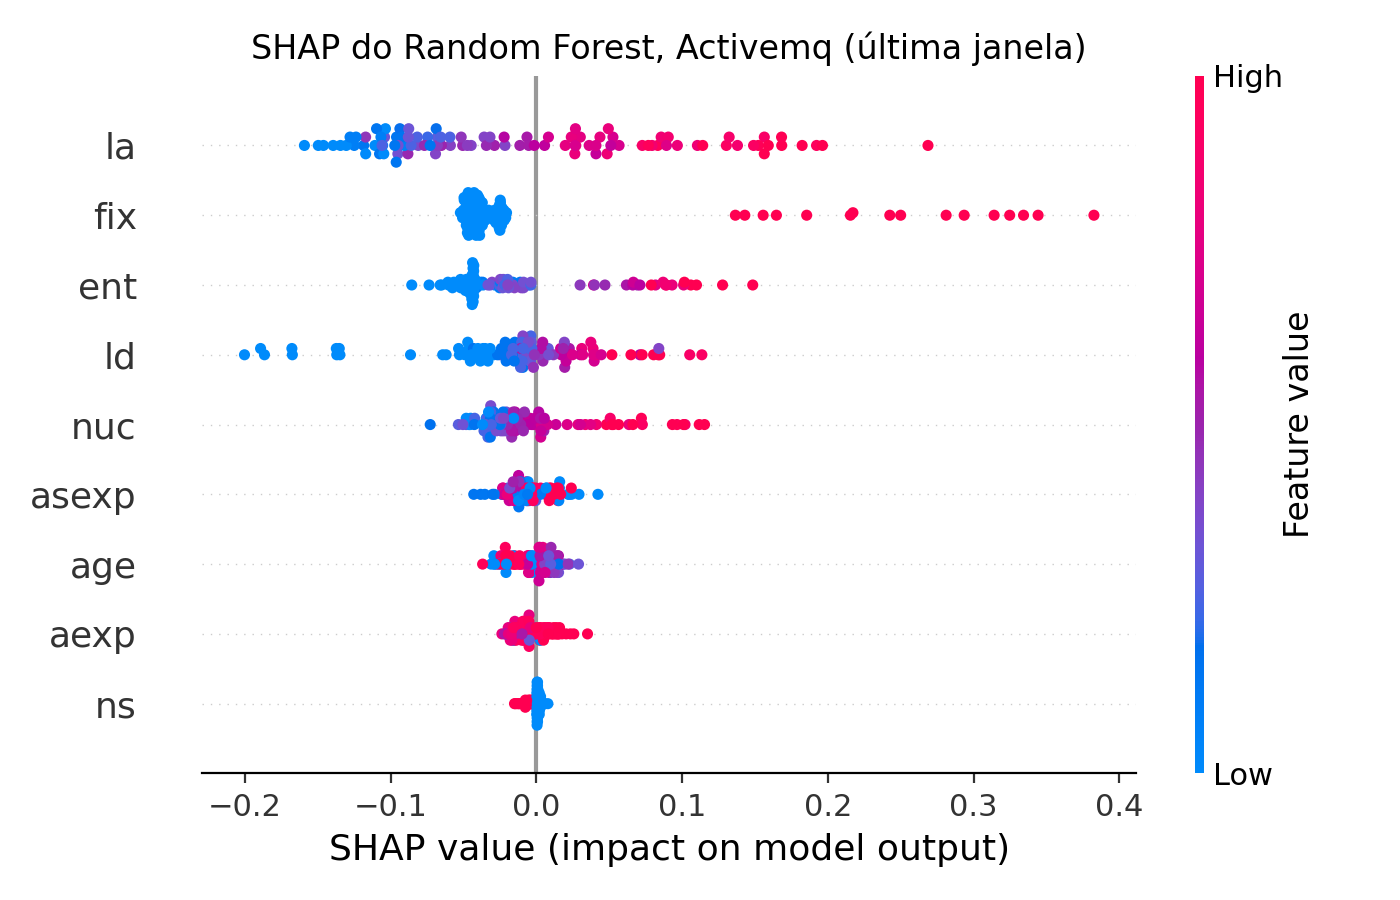
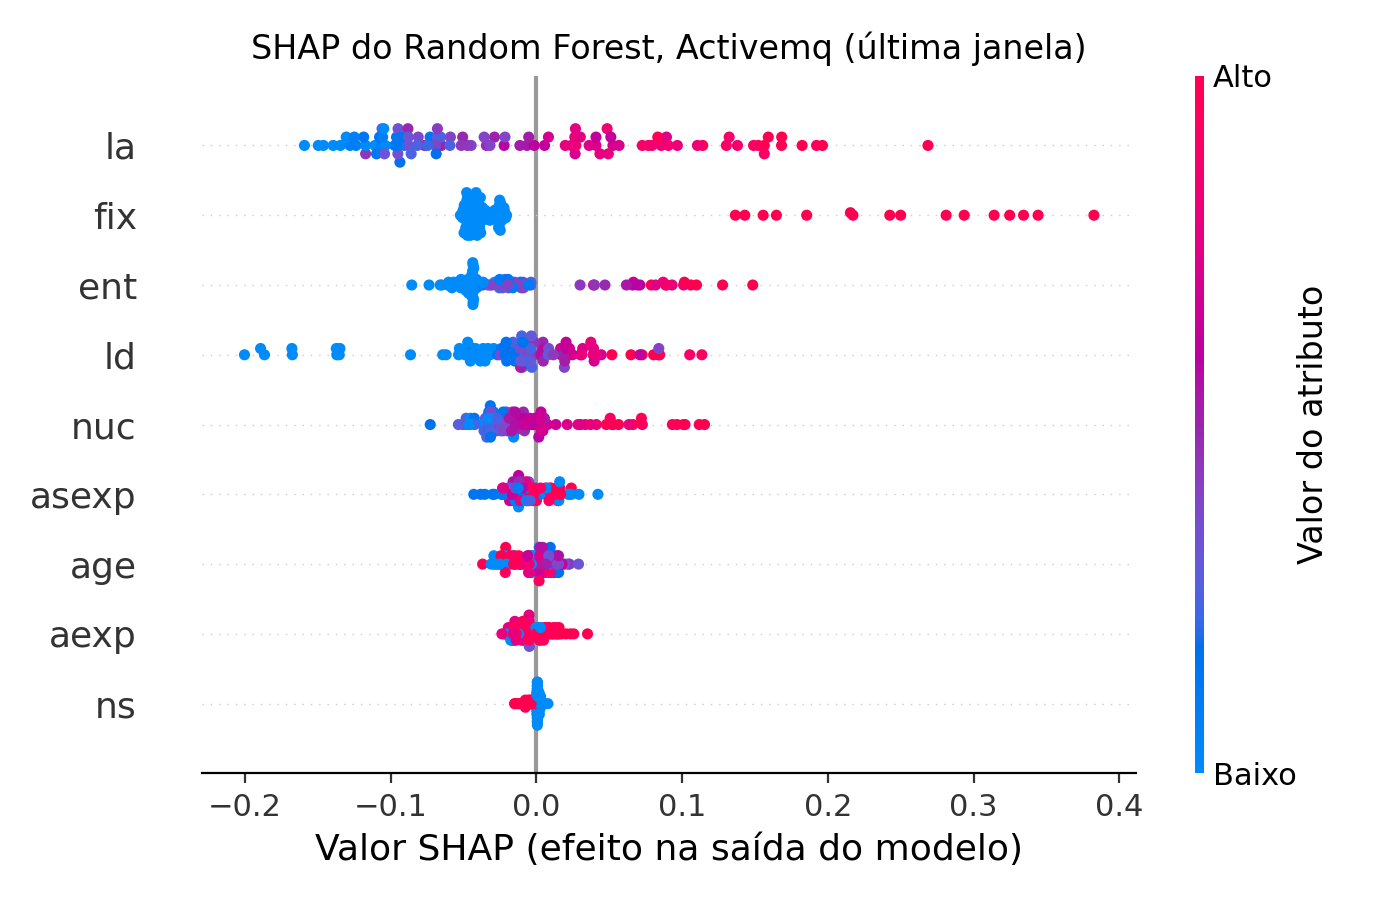
style: traduz os rótulos do gráfico SHAP

diff --git a/src/etapa8.py b/src/etapa8.py
@@ -54,6 +54,10 @@ def projeto(proj):
                 linhas.append({"projeto": proj, "modelo": nome, "metodo": "shap_direcao", "atributo": a, "importancia": c})
             if nome == "RF":
                 shap.summary_plot(vals, amostra, show=False, plot_size=(7, 4.5))
+                eixo, barra = plt.gcf().axes[0], plt.gcf().axes[-1]
+                eixo.set_xlabel("Valor SHAP (efeito na saída do modelo)")
+                barra.set_ylabel("Valor do atributo")
+                barra.set_yticklabels(["Baixo", "Alto"])
                 plt.title(f"SHAP do Random Forest, {proj.capitalize()} (última janela)")
                 plt.tight_layout()
                 plt.savefig(f"{FIG_SHAP}/fig_shap_{proj}_rf.png", dpi=200)
